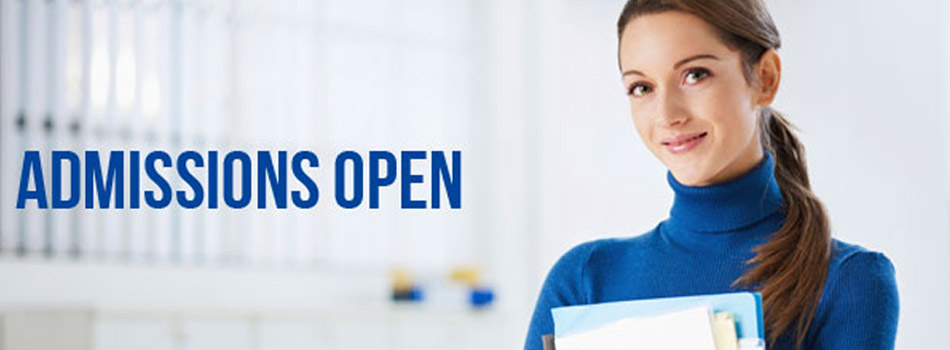
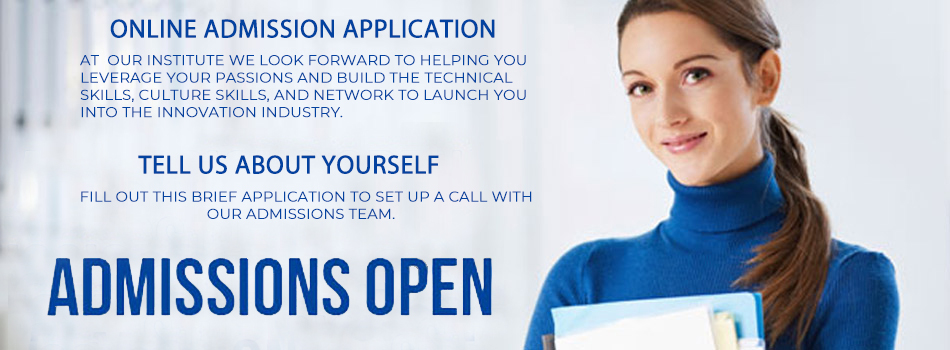
change on error

Changed region(s): [[0.0, 0.1429, 0.58, 1.0], [0.0916, 0.0571, 0.5189, 0.1143]]

diff --git a/public/css/online-admission.css b/public/css/online-admission.css
@@ -9,8 +9,25 @@ input{
 br{
 	height: 60px;
 }
-.img-responsive{
-    max-width: 70% !important;
+.faq
+{
+    padding:25px !important;
+}
+.faq h4
+{
+    text-align: center;
+    font-weight: bold;
+}
+.faq p{
+    font-size: 15px;
+    text-align: center;
+}
+.admission-text p
+{
+    position: absolute;
+    top: 10px;
+    left: 10px;
+    font-size: 17px;
 }
 
 

diff --git a/resources/views/online-admission.blade.php b/resources/views/online-admission.blade.php
@@ -24,10 +24,16 @@
 
         
 	<section class="row m-0">
-		<div class="col-md-12 p-0 dark-bg">
+		<div class="col-md-8 p-0 dark-bg">
 		    <img src="img/addminsion-open.jpg" class="img-responsive">
-			
+     			
 		</div>
+    <div class="col-md-4 p-0 light-bg faq"><h4 >What Happens After I Apply?</h4><p>
+Our admissions team will be in touch to schedule a call. During the call, they'll work with you to determine whether this is the right program at the right time for you.
+</p>
+
+<h4>Can I Change My Course?</h4>
+<p>Of course! Our admissions team will help select the right Course if you have any questions.</p></div>
 	</section>	
 	
 
